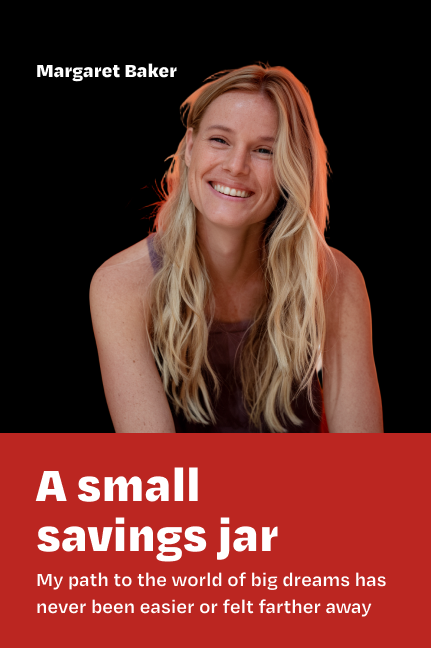
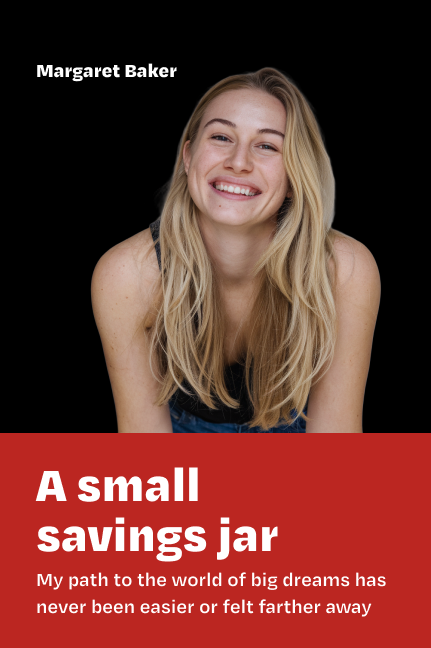
11/2 changes

Changed region(s): [[0.181, 0.0926, 0.9049, 0.679]]

diff --git a/src/components/QuizSteps/Step7.js b/src/components/QuizSteps/Step7.js
@@ -17,14 +17,14 @@ const previewTemplates = [
 ];
 
 const cropperData = [
-  { id: 1, top: null, bottom: 70, left: 0, width: 390, height: 340, mobBottom: 50, mobLeft: 0, mobWidth: 280, mobHeight: 250 },
-  { id: 2, top: null, bottom: 193, left: 0, width: 390, height: 395, mobTop: 0, mobLeft: 0, mobWidth: 280, mobHeight: 280 },
-  { id: 3, top: null, bottom: 80, left: 65, width: 268, height: 300, mobTop: null, mobBottom: 55, mobLeft: 40, mobWidth: 198, mobHeight: 220 },
-  { id: 4, top: 0, bottom: null, left: 0, width: 390, height: 367, mobTop: 0, mobLeft: 0, mobWidth: 280, mobHeight: 265 },
-  { id: 5, top: null, bottom: 0, left: 0, width: 390, height: 590, mobTop: null, mobBottom: 0.01, mobLeft: 0, mobWidth: 280, mobHeight: 420 },
-  { id: 6, top: null, bottom: 103, left: 68, width: 255, height: 272, mobTop: null, mobBottom: 70, mobLeft: 0, mobWidth: 195, mobHeight: 200, radius: true },
-  { id: 7, top: null, bottom: 103, left: 68, width: 255, height: 272, mobTop: null, mobBottom: 70, mobLeft: 0, mobWidth: 190, mobHeight: 200, radius: true },
-  { id: 8, top: null, bottom: 12, left: 12, width: 367, height: 360, mobTop: null, mobBottom: 8, mobLeft: 0, mobWidth: 260, mobHeight: 260 }
+  { id: 1, top: null, bottom: 63, left: 0, width: 350, height: 290, mobTop: 0, mobBottom: 50, mobLeft: 0, mobWidth: 280, mobHeight: 250 },
+  { id: 2, top: null, bottom: 173, left: 0, width: 350, height: 355, mobTop: 0, mobLeft: 0, mobWidth: 280, mobHeight: 280 },
+  { id: 3, top: null, bottom: 70, left: 58, width: 242, height: 270, mobTop: null, mobBottom: 55, mobLeft: 40, mobWidth: 198, mobHeight: 220 },
+  { id: 4, top: 0, bottom: null, left: 0, width: 350, height: 330, mobTop: 0, mobLeft: 0, mobWidth: 280, mobHeight: 265 },
+  { id: 5, top: null, bottom: 0, left: 0, width: 350, height: 527, mobTop: null, mobBottom: 0.01, mobLeft: 0, mobWidth: 280, mobHeight: 420 },
+  { id: 6, top: null, bottom: 90, left: 60, width: 230, height: 248, mobTop: null, mobBottom: 70, mobLeft: 0, mobWidth: 195, mobHeight: 200, radius: true },
+  { id: 7, top: null, bottom: 90, left: 60, width: 230, height: 248, mobTop: null, mobBottom: 70, mobLeft: 0, mobWidth: 190, mobHeight: 200, radius: true },
+  { id: 8, top: null, bottom: 10, left: 12, width: 327, height: 325, mobTop: null, mobBottom: 8, mobLeft: 0, mobWidth: 260, mobHeight: 260 }
 ]
 const Step7 = ({ setProgressStep, setIsButtonDisabled }) => {
   const {
@@ -135,7 +135,7 @@ const Step7 = ({ setProgressStep, setIsButtonDisabled }) => {
   
   return (
     <>
-      <div className="relative w-full mt-4 md:px-2 flex flex-col items-center md:flex-row md:justify-end md:gap-16 ">
+      <div className="relative w-full mt-4 md:px-2 flex flex-col items-center md:flex-row md:justify-end md:gap-24 ">
 
         {isCropperOpen && (
           <div
@@ -148,7 +148,7 @@ const Step7 = ({ setProgressStep, setIsButtonDisabled }) => {
         )}
 
         {/* Slider */}
-        <div className="max-w-[390px] w-full flex justify-center items-center relative max-h-[420px] md:max-h-[648px]">
+        <div className="max-w-[350px] w-full flex justify-center items-center relative max-h-[420px] md:max-h-[648px]">
 
           {/* Modal crop window */}
           {isCropperOpen && selectedTemplate.templateId && (
@@ -209,7 +209,7 @@ const Step7 = ({ setProgressStep, setIsButtonDisabled }) => {
 
       {/* Button for the modal */}
       {isRendered && (
-        <div className={`flex justify-center md:max-w-[390px] md:ml-[50px] transition-all duration-300 ${isModalOpen ? "mt-8 md:mt-10" : "mt-8 md:mt-4"
+        <div className={`flex justify-center md:max-w-[350px] md:ml-[60px] transition-all duration-300 ${isModalOpen ? "mt-8 md:mt-10" : "mt-8 md:mt-4"
           }`}>
           <button
             className="text-[14px] font-medium bg-[#EAAC0026] text-black shadow-md h-6 box-content w-[170px] flex items-center justify-center border rounded-[3px] border-[#878787] cursor-pointer"

diff --git a/src/components/QuizSteps/Step6.js b/src/components/QuizSteps/Step6.js
@@ -22,7 +22,7 @@ const Step6 = ({ setProgressStep, setIsButtonDisabled }) => {
     return /Mobi|Android|iPhone|iPad/i.test(navigator.userAgent);
   };
   useEffect(() => {
-    setProgressStep(4);
+    setProgressStep(5);
   }, [setProgressStep]);
 
   useEffect(() => {
@@ -143,9 +143,9 @@ const Step6 = ({ setProgressStep, setIsButtonDisabled }) => {
   return (
     <div>
       <div className="w-full mt-2 md:px-6">
-        <div className="field-title">Upload a photo to personalize your book’s cover.</div>
+        <div className="field-title">Upload a photo</div>
         <div className="field-desc">
-          We recommend using a high-quality photo of {authorName.trim()}, either a portrait or a full upper body shot.
+        We’ll feature it on the front cover to make your book feel more personal. For the best results, use a high-quality image of {authorName.trim()} — either a portrait or an upper-body shot
         </div>
 
         <div className="w-full flex justify-center mt-5">
